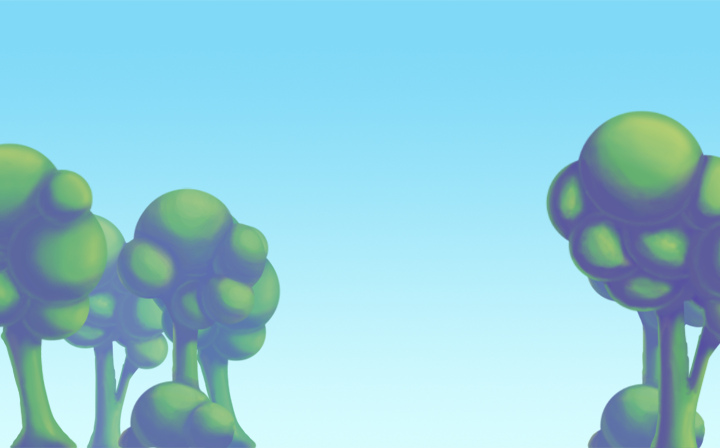
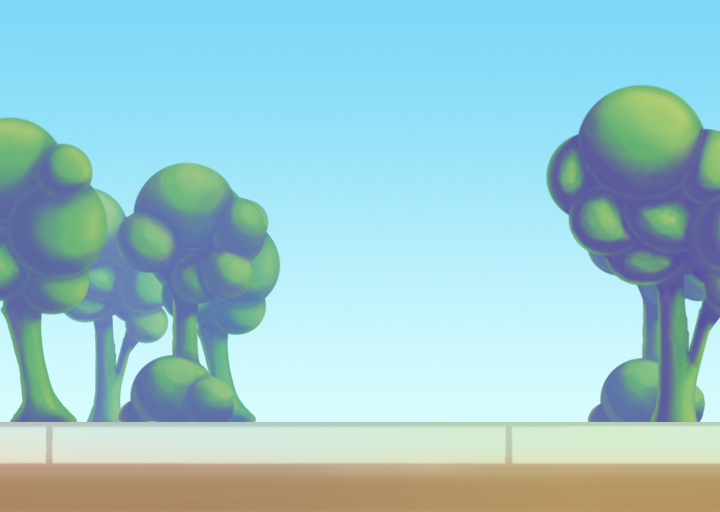
Updated background and platform images with new graphics asset.

diff --git a/ts/States/GamePlay.ts b/ts/States/GamePlay.ts
@@ -65,11 +65,14 @@
         }
 
         public resize(): void {
+            let bgPerc: number = 0.4;
+            let ptfrmPerc: number = 0.6;
+
             // Background positioning
-            this.background.y = this.game.height * 0.35;
+            this.background.y = this.game.height * bgPerc;
             this.background.x = this.game.width * 0.5;
             // Background height scaling
-            this.background.height = this.game.height * 0.35;
+            this.background.height = this.game.height * bgPerc;
             this.background.scale.x = this.background.scale.y;
             // Background width scaling
             if (this.background.width < this.game.width) {
@@ -81,7 +84,7 @@
             this.platform.y = this.background.bottom;
             this.platform.x = this.game.width * 0.5;
             // Platform height scaling
-            this.platform.height = this.game.height * 0.65;
+            this.platform.height = this.game.height * ptfrmPerc;
             this.platform.width = this.game.width;
 
             this.train.y = this.platform.y;
